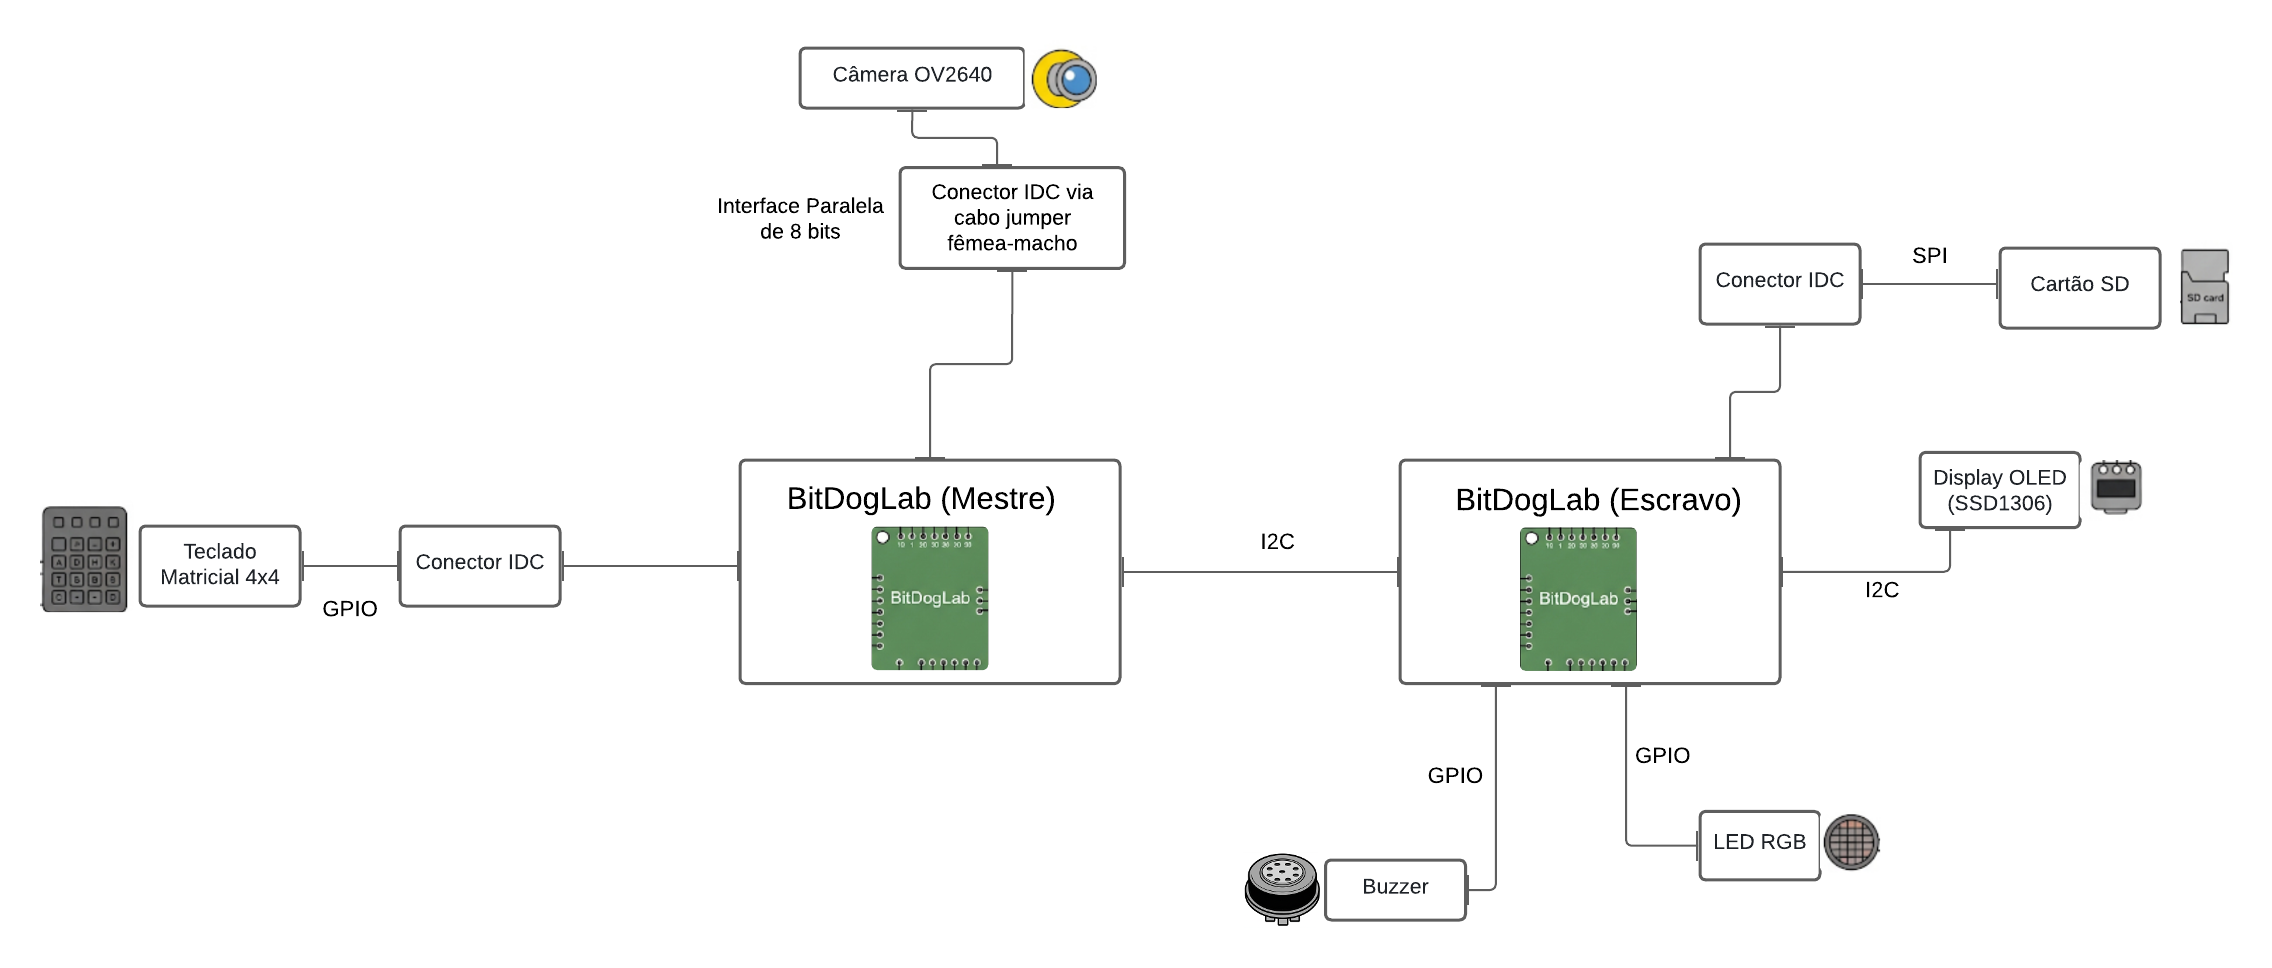
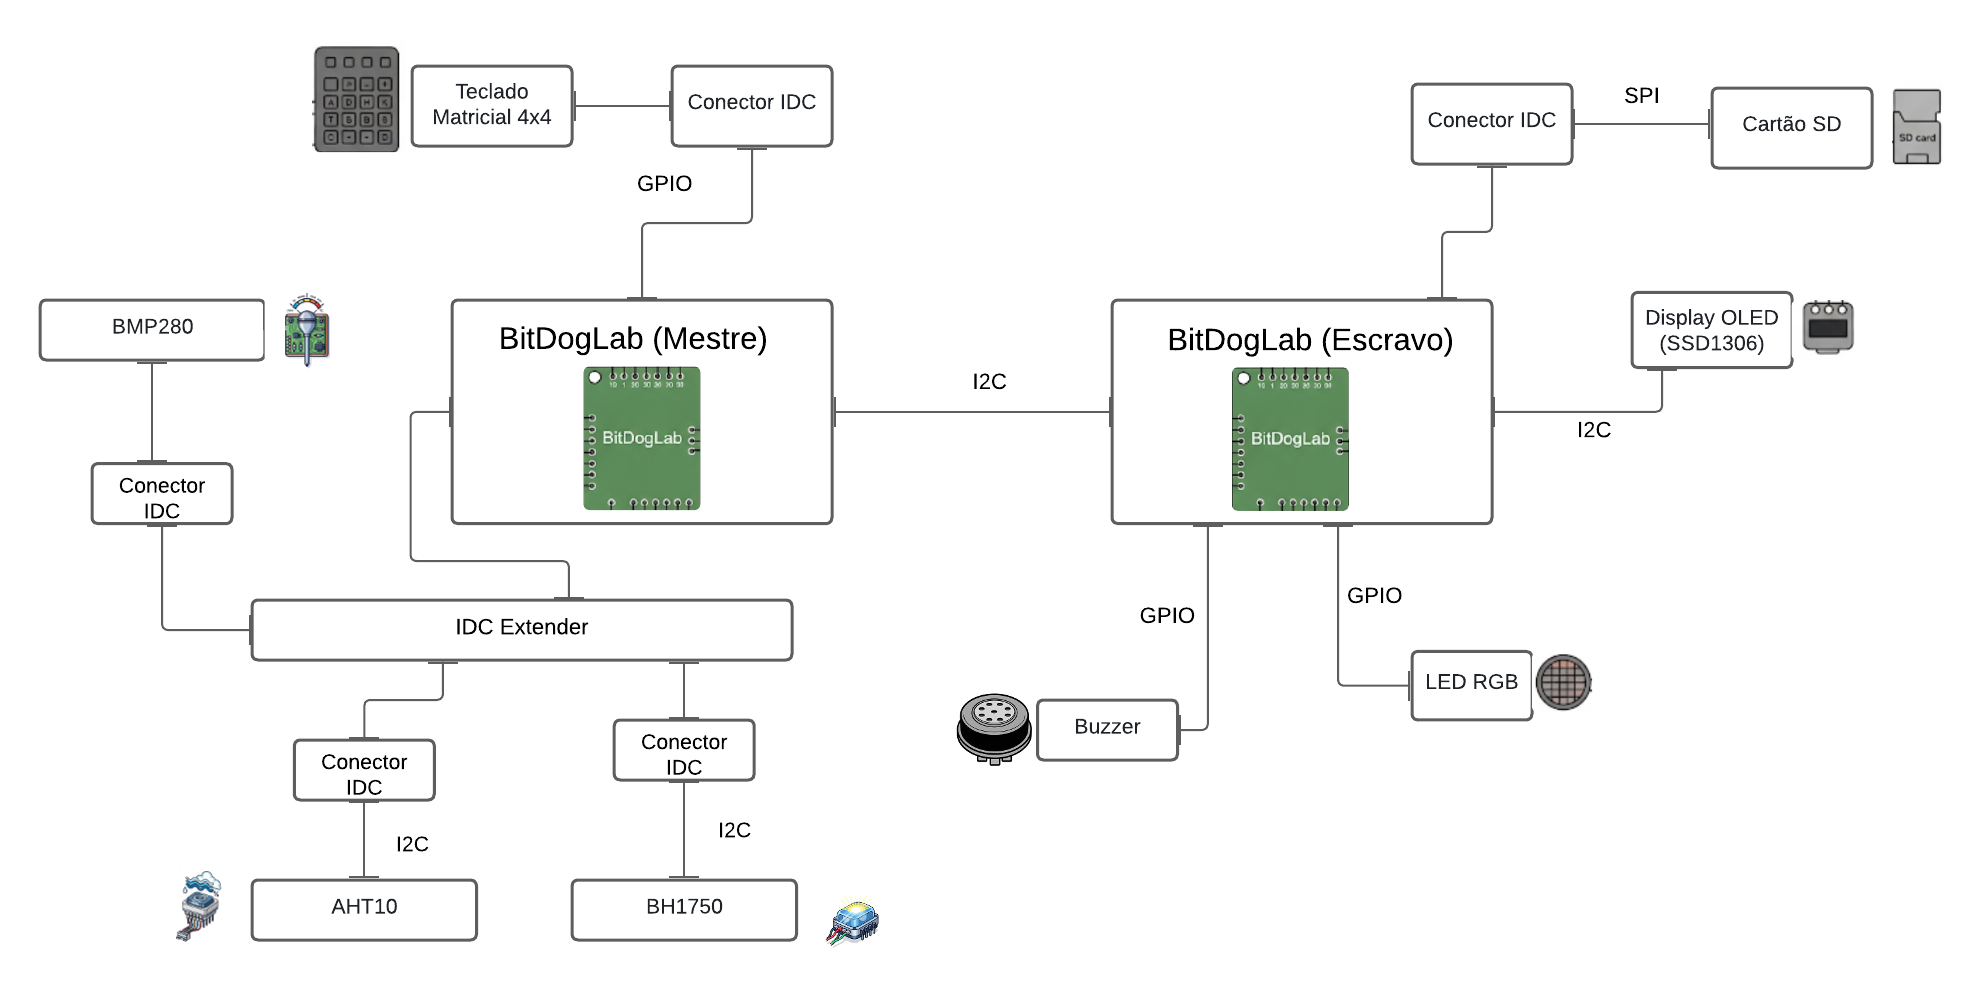
refactor: ajustes e alterações na entrega da Etapa 2 e criação do modelo para a Etapa 3

diff --git a/Etapa 2/README.md b/Etapa 2/README.md
@@ -27,21 +27,32 @@ O **Diagrama de Hardware** detalha os componentes eletrônicos utilizados e suas
 ---
 
 ## **Diagrama de Hardware**
-O sistema embarcado apresentado adota uma **arquitetura distribuída**, composta por dois módulos BitDogLab que operam em conjunto na configuração mestre-escravo, interligados por meio do protocolo I2C. Essa abordagem proporciona maior modularidade, divisão de tarefas e escalabilidade ao projeto.
+O sistema embarcado apresentado adota uma **arquitetura distribuída**, composta por **dois módulos BitDogLab** que operam em conjunto na configuração mestre-escravo, interligados por meio do protocolo I2C. Essa abordagem modular permite uma clara divisão de tarefas, onde o módulo mestre é responsável pela coleta de dados e interação com o usuário, enquanto o módulo escravo gerencia o armazenamento e o feedback ao usuário.
 
-Uma das principais entradas do sistema é realizada por um **Teclado Matricial 4x4**, conectado ao **módulo BitDogLab (Mestre)** via GPIO, utilizando um conector IDC. Esse teclado permite a interação direta do usuário com o sistema, possibilitando a inserção da operação desejada e a quantidade de itens.
+Uma das principais entradas do sistema é realizada por um **Teclado Matricial 4x4**, conectado ao módulo **BitDogLab (Mestre)** via GPIO, utilizando um conector IDC. Esse periférico é fundamental para a interação do usuário, permitindo a inserção da quantidade de produtos, a seleção entre adicionar ou remover itens do estoque e a requisição de dados ambientais.
 
-A **Câmera OV2640** é conectada também ao **módulo BitDogLab (Mestre)** por meio de uma interface paralela de 8 bits, utilizando um conector IDC via cabo jumper fêmea-macho. Essa câmera é responsável pela captura de imagens e pela leitura de QR Codes, etapa essencial para a identificação dos produtos no sistema.
+O monitoramento das condições de armazenamento é realizado por um conjunto de sensores conectados ao **módulo BitDogLab (Mestre)** através de um **IDC Extender** e do barramento I2C. Os sensores utilizados são:
 
-Todos os dados capturados pelo módulo mestre são enviados para o **módulo BitDogLab (Escravo)** através do barramento I2C. Esse módulo centraliza as decisões e coordena os demais periféricos do sistema.
+* **BMP280**: para medição de temperatura e pressão atmosférica.
 
-Para o armazenamento dos dados, a **BitDogLab (Escravo)** utiliza um **Cartão SD**, conectado via protocolo SPI por meio de um conector IDC. Isso possibilita o registro persistente das informações processadas, assegurando a operação offline e a integridade dos dados do sistema.
+* **AHT10**: para aferição da umidade do ambiente.
 
-A comunicação com o usuário também é realizada por meio de um **Display OLED (SSD1306)**, conectado ao módulo escravo via I2C. Esse display exibe informações relevantes, como instruções, mensagens de erro, status do sistema e o conteúdo lido pelos QR Codes.
+* **BH1750**: para captar os níveis de luminosidade.
+Esses dados são cruciais para garantir a qualidade do armazenamento e permitir que o usuário tome ações preventivas.
 
-Além disso, a **BitDogLab (Escravo)** controla dois dispositivos conectados via GPIO para fornecer feedback visual e sonoro ao usuário: um **LED RGB**, utilizado para indicar os estados do sistema através de diferentes cores, e um **Buzzer**, responsável por emitir sinais sonoros para alertas ou confirmações de operação.
+Todos os dados capturados e os comandos inseridos no módulo mestre são enviados para o módulo **BitDogLab (Escravo)** através da comunicação I2C. Este módulo atua como o controlador secundário, responsável por executar as tarefas de armazenamento e notificação.
 
-Essa organização do hardware garante modularidade e eficiência na comunicação entre os componentes, otimizando o desempenho do sistema embarcado e assegurando que ele atenda de forma confiável às suas funções principais.
+Para o armazenamento persistente dos dados de estoque, o módulo BitDogLab (Escravo) utiliza um **Cartão SD**, conectado via protocolo SPI por meio de um conector IDC. Isso garante que o sistema possa operar de forma autônoma, registrando todas as transações e mantendo a integridade do inventário mesmo em caso de falha de comunicação com um servidor externo.
+
+A interface visual com o usuário é provida por um **Display OLED (SSD1306)**, conectado ao módulo escravo via I2C. Esse display exibe informações relevantes, como instruções de operação, status do sistema, quantidade de itens e os dados ambientais coletados pelos sensores.
+
+Adicionalmente, o módulo **BitDogLab (Escravo)** controla dois dispositivos de feedback conectados via GPIO:
+
+* Um **LED RGB**, utilizado para indicar visualmente os estados do sistema (ex: modo de adição, modo de remoção, sucesso na operação).
+
+* Um **Buzzer**, responsável por emitir sinais sonoros para alertas ou confirmações de ações.
+
+Essa organização do hardware garante uma arquitetura robusta e modular, com uma clara separação de responsabilidades entre os microcontroladores, otimizando o processamento e assegurando que o sistema atenda de forma confiável às suas funções de controle de estoque e monitoramento ambiental.
 
 O diagrama apresentado ilustra de maneira clara as conexões entre os componentes físicos, bem como os protocolos de comunicação utilizados:
 
@@ -50,16 +61,23 @@ O diagrama apresentado ilustra de maneira clara as conexões entre os componente
 ---
 
 ## **Blocos Funcionais**
-Como foi mencionado anteriormente, sistema foi projetada de forma modular para garantir clareza, escalabilidade e manutenibilidade. Dessa forma, cada bloco funcional possui uma responsabilidade específica no fluxo de operação do sistema, sendo coordenado por uma arquitetura de processamento distribuída entre dois microcontroladores. Essa divisão permite melhor desempenho e paralelismo nas tarefas.
+Como foi mencionado anteriormente, a arquitetura do sistema foi projetada de forma modular para garantir clareza, escalabilidade e manutenibilidade. Dessa forma, cada bloco funcional possui uma responsabilidade específica no fluxo de operação, sendo o sistema coordenado por uma arquitetura de processamento distribuída entre dois microcontroladores. Essa divisão permite um melhor desempenho e organização das tarefas.
 
-A seguir é explicado a funcionalidade de cada bloco:
-* **Módulo de Captura de Imagem**: composto pela câmera OV2640, este módulo é responsável por capturar imagens e realizar a leitura de QR Codes. Os dados capturados são enviados ao módulo de processamento secundário para pré-processamento e repasse.
-* **Módulo de Entrada de Dados**: inclui o teclado matricial 4x4, utilizado para a entrada de comandos manuais por parte do usuário, informando ações como entrada ou saída de produto e suas respectivas quantidades.
-* **Módulo de Processamento Secundário**: este bloco representa o microcontrolador BitDogLab configurado como mestre. Ele é responsável por adquirir os dados da câmera e do teclado e repassar essas informações, de forma estruturada, ao microcontrolador escravo. Atua como um módulo de coleta e pré-processamento de dados.
-* **Módulo de Processamento Central**: neste bloco está o segundo microcontrolador BitDogLab, configurado como escravo. Ele é responsável por coordenar todo o sistema, processando as informações recebidas do módulo mestre, gerenciando o armazenamento local, enviando comandos para os periféricos de feedback e garantindo a comunicação com sistemas externos, representando, assim, o núcleo do sistema.
-* **Módulo de Feedback**: consiste na interface de saída de informações detalhadas para o usuário, exibindo e indicando dados do produto, instruções de operação, confirmações, mensagens de erro e o resumo das transações. O display OLED, o LED RGB e o Buzzer representam esse módulo.
-* **Módulo de Armazenamento**: responsável por guardar os dados de estoque em um cartão SD, garantindo funcionamento offline e persistência.
-* **Módulo de Conectividade**: utiliza o Wi-Fi para conectar-se a um servidor ou sistema central, enviando e recebendo dados via MQTT.
+A seguir é explicada a funcionalidade de cada bloco:
+
+- **Módulo de Entrada de Dados**: Composto pelo Teclado Matricial 4x4, este bloco é uma das principais interface para a interação manual do usuário. Através dele, é possível inserir a quantidade de produtos, selecionar a operação (adicionar ou remover) e solicitar a exibição dos dados ambientais.
+
+- **Módulo de Dados do Ambiente**: Este módulo é constituído pelos sensores BMP280 (temperatura e pressão), AHT10 (umidade) e BH1750 (luminosidade). Sua função é monitorar continuamente as condições físicas do local de armazenamento, fornecendo dados essenciais para garantir a qualidade e a conservação do estoque.
+
+- **Módulo de Processamento Secundário**: Representado pelo microcontrolador BitDogLab configurado como mestre, este bloco atua como um concentrador de entradas. Ele é responsável por coletar os dados provenientes do Módulo de Entrada de Dados (quantidade de produtos e operação (Registro ou Retirada)), Módulo de Dados do Ambiente (temperatura, pressão atmosférica, umidade e luminosidade) e Módulo de Conectividade (nome do produto) realizar um pré-processamento e enviá-los de forma estruturada para o processador central.
+
+- **Módulo de Processamento Central**: Neste bloco está o segundo microcontrolador BitDogLab, configurado como escravo, que funciona como o núcleo do sistema. Ele recebe as informações do módulo secundário, executa a lógica de controle de estoque, gerencia o armazenamento local, comanda os periféricos de feedback e coordena a comunicação externa através do módulo de conectividade.
+
+- **Módulo de Armazenamento**: Responsável por guardar os dados de inventário em um Cartão SD. Este módulo garante a persistência das informações, permitindo que o sistema opere de forma offline e mantenha um registro seguro de todas as transações.
+
+- **Módulo de Feedback**: Consiste na interface de saída de informações para o usuário. Composto pelo Display OLED, LED RGB e Buzzer, este bloco fornece retornos visuais e sonoros, exibindo status da operação, instruções, alertas e os dados coletados do ambiente.
+
+- **Módulo de Conectividade**: Utilizando a tecnologia Wi-Fi e o protocolo MQTT, este módulo permite que o sistema se comunique com aplicações externas. Ele é responsável por receber dados, como o nome de um produto, e enviar atualizações sobre o estado do estoque para um servidor central, integrando o dispositivo a um ecossistema maior.
 
 A imagem a seguir explicita de forma visual os blocos funcionais do projeto:
 

diff --git a/Etapa 3/README.md b/Etapa 3/README.md
@@ -1,0 +1,31 @@
+# Projeto Final: Etapa 3 - EmbarcaTech 2025
+
+Autor: **Davi Henrique Vieira Lima e José Augusto Alves de Moraes**
+
+Curso: Residência Tecnológica em Sistemas Embarcados
+
+Instituição: EmbarcaTech - HBr
+
+Brasília, agosto de 2025
+
+---
+
+## **Introdução**
+
+---
+
+## **Vídeos e Fotos da Montagem**
+
+---
+
+## **Testes**
+
+---
+
+## **Desafios Encontrados**
+
+---
+
+## **Melhorias Planejadas**
+
+---
